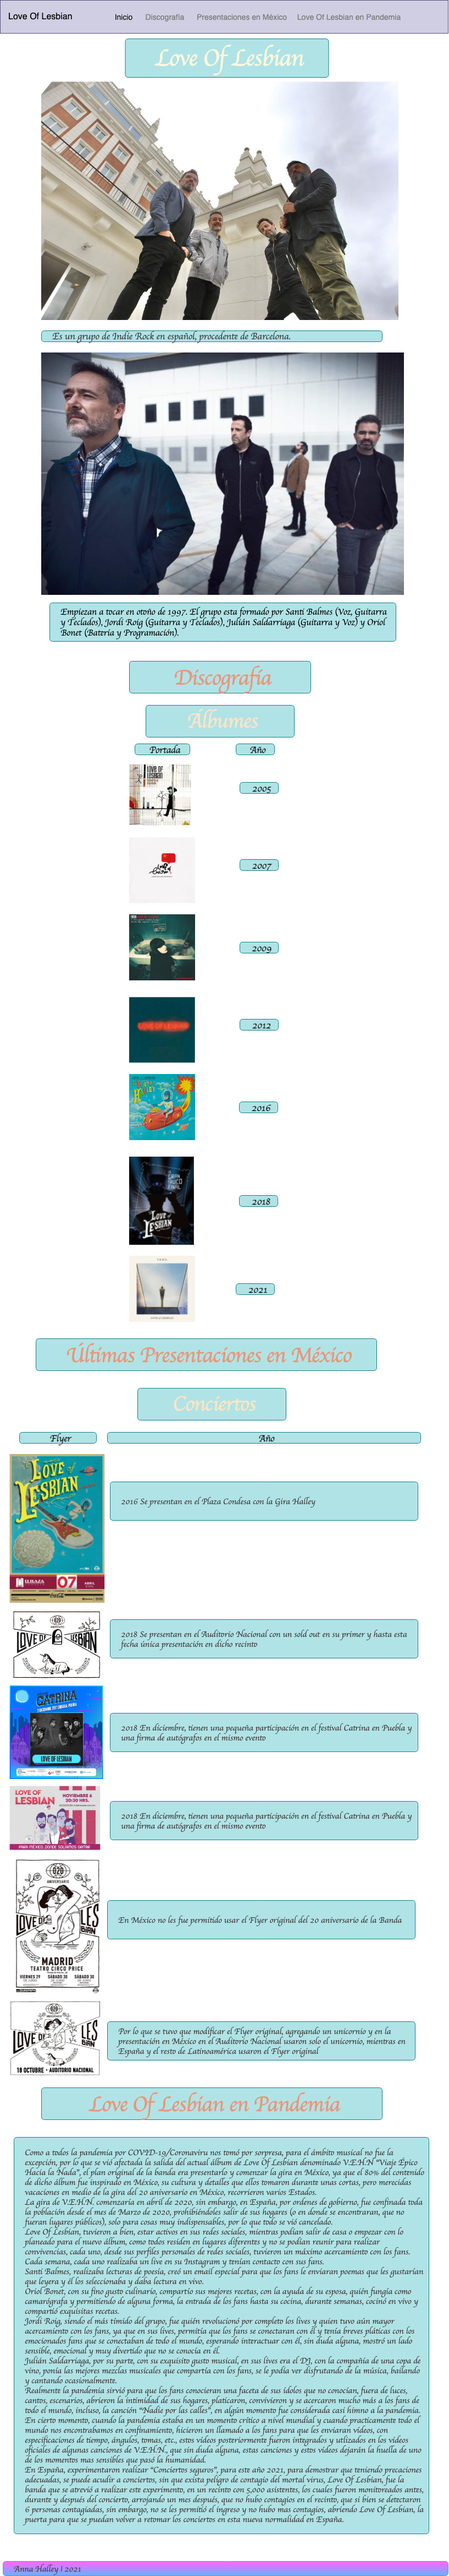
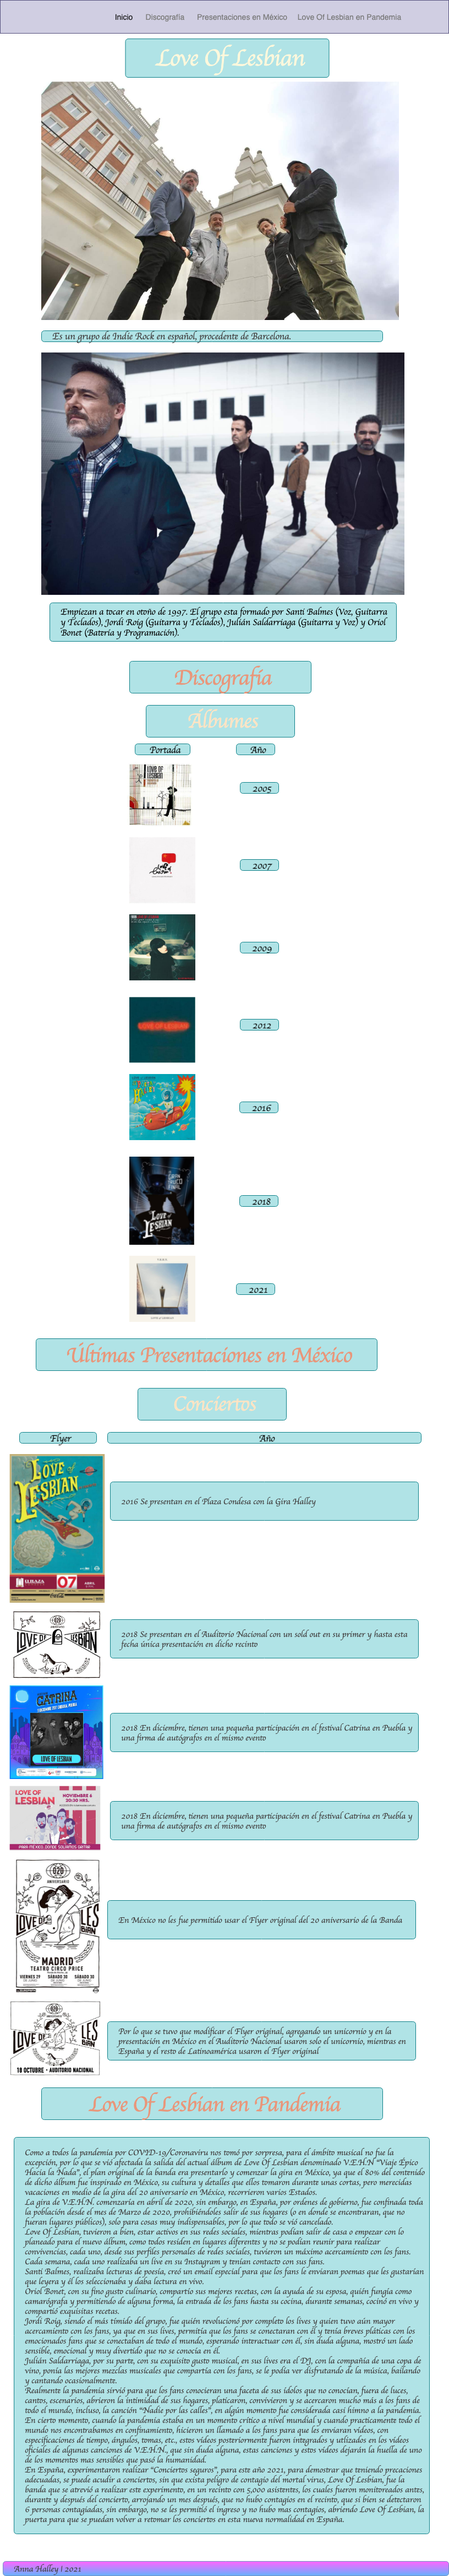
Portafolio

diff --git a/Taller1/Actividad2/MWT1A1_BandaLoveOfLesbian/index.html b/Taller1/Actividad2/MWT1A1_BandaLoveOfLesbian/index.html
@@ -16,16 +16,16 @@
         <nav>
             <ul>
                 <li>
-                    <a href="">Inicio</a>
+                    <a href="/">Inicio</a>
                 </li>
                 <li>
-                    <a href="">Discografía</a>
+                    <a href="/">Discografía</a>
                 </li>
                 <li>
-                    <a href="">Últimas Presentaciones en México</a>
+                    <a href="/">Últimas Presentaciones en México</a>
                 </li>
                 <li>
-                    <a href="">Love Of Lesbian en Pandemia</a>
+                    <a href="/">Love Of Lesbian en Pandemia</a>
                 </li>
             </ul>
         </nav>

diff --git a/Taller1/Actividad2/MWT1A1_BandaLoveOfLesbian/index.css b/Taller1/Actividad2/MWT1A1_BandaLoveOfLesbian/index.css
@@ -12,10 +12,21 @@ body{
     font-family: 'Caveat', cursive;
 }
 nav{
-    font-size: 20px;
+    font-size: 25px;
+}
+a{
+    text-decoration: none;
+    color: rgb(41, 39, 39);
+}
+ul{
+    display: flex;
+    justify-content: space-evenly;
+    list-style: none;
+    background-color: rgba(226, 156, 226, 0.822);
+    padding: 8px 0px;
 }
 main{
-    color: rgb(68, 67, 67)
+    color: rgb(61, 56, 56)
 }
 footer{
     color: rgb(248, 140, 243);
